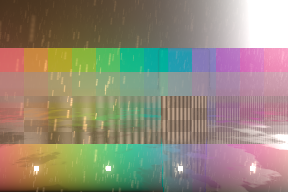
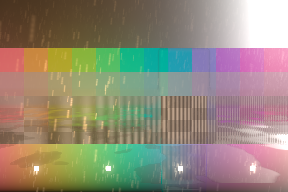
Fix puddles

diff --git a/crates/calibraw-core/src/pipeline/processing/tiles.rs b/crates/calibraw-core/src/pipeline/processing/tiles.rs
@@ -46,6 +46,11 @@ pub const HAZE_GUIDE_SUPPORT: u32 = 2;
 // tone guide, so the guide's halo covers both.
 const _: () = assert!(HAZE_BOX_SUPPORT <= TONE_GUIDE_SUPPORT);
 const _: () = assert!(HAZE_GUIDE_SUPPORT <= TONE_GUIDE_SUPPORT);
+/// Pixels around each pixel over which Wet Surfaces reads the scene's detail
+/// (`WET_DETAIL_REACH` in wet_surfaces.wgsl). It reads the scene the tone guide
+/// reads, so the guide's halo covers it too.
+pub const WET_SURFACES_SUPPORT: u32 = 2;
+const _: () = assert!(WET_SURFACES_SUPPORT <= TONE_GUIDE_SUPPORT);
 /// Footprint of the Texture and Clarity cascade (detail_scale_space.wgsl):
 /// 2 taps each side at steps 1, 2, 4, …, 2^(levels - 1), so 2 × (2^levels - 1).
 /// Texture alone builds 5 levels, Clarity all 7; `layout_contract_tests`

diff --git a/crates/calibraw-gpu/src/pipeline/gpu/layout_contract_tests.rs b/crates/calibraw-gpu/src/pipeline/gpu/layout_contract_tests.rs
@@ -21,6 +21,7 @@ use crate::pipeline::MaskEffect;
 use calibraw_core::pipeline::{
     CA_WINDOW_RADIUS, DETAIL_CLARITY_SUPPORT, DETAIL_TEXTURE_SUPPORT, HAZE_BOX_SUPPORT,
     HAZE_GUIDE_SUPPORT, MAX_LATERAL_SHIFT, MAX_RESOLUTION_SCALE, TONE_GUIDE_RADIUS_CELLS,
+    WET_SURFACES_SUPPORT,
 };
 use naga::proc::Layouter;
 use std::collections::BTreeSet;
@@ -641,6 +642,10 @@ fn weather_cell_matches_its_wgsl_declaration() {
         .find(|(_, ty)| ty.name.as_deref().map(undecorated) == Some("WeatherCell"))
         .expect("WeatherCell is declared");
     assert_eq!(u64::from(layouter[handle].size), WEATHER_CELL_BYTES);
+    assert_eq!(
+        shared_u32_constant(&modules, "WET_DETAIL_REACH"),
+        WET_SURFACES_SUPPORT
+    );
 }
 
 #[test]

diff --git a/crates/calibraw-core/src/pipeline/mod.rs b/crates/calibraw-core/src/pipeline/mod.rs
@@ -80,7 +80,7 @@ pub use processing::{
     required_export_tile_halo, ExportTile, ProcessingStage, ProxySpec, TilePlan, TileSpec,
     CA_WINDOW_RADIUS, CHROMATIC_ABERRATION_SUPPORT, DETAIL_CLARITY_SUPPORT, DETAIL_TEXTURE_SUPPORT,
     EXPORT_TILE_HALO, HAZE_BOX_SUPPORT, HAZE_GUIDE_SUPPORT, MAX_RESOLUTION_SCALE,
-    MIN_EXPORT_TILE_HALO, TONE_GUIDE_CELL_SIZE, TONE_GUIDE_RADIUS_CELLS,
+    MIN_EXPORT_TILE_HALO, TONE_GUIDE_CELL_SIZE, TONE_GUIDE_RADIUS_CELLS, WET_SURFACES_SUPPORT,
 };
 pub use raw_loader::{
     decodes_as_raster, is_supported_raw_path, is_unsupported_raw_error,

diff --git a/crates/calibraw-gpu/src/pipeline/gpu/effect_inputs.rs b/crates/calibraw-gpu/src/pipeline/gpu/effect_inputs.rs
@@ -734,6 +734,7 @@ impl InputBindingSources {
                     buffer_binding(0, &self.camera_uniforms),
                     sampler_binding(28, &self.mask_sampler),
                     texture_binding(35, inputs.scene_depth),
+                    texture_binding(67, &weather.environment_view),
                     texture_binding(72, &weather.ground_view),
                 ],
             ),

diff --git a/crates/calibraw-gpu/src/pipeline/gpu/builder/layouts.rs b/crates/calibraw-gpu/src/pipeline/gpu/builder/layouts.rs
@@ -736,6 +736,7 @@ pub(in crate::pipeline::gpu) fn create_bind_group_layouts(
             buffer_entry(0),
             sampler_entry(28),
             texture_entry(35, wgpu::TextureSampleType::Float { filterable: true }),
+            weather_read(67),
             environment_write(72),
         ],
     ];

diff --git a/README.md b/README.md
@@ -138,7 +138,7 @@ Apply effects to the whole photo or stack them on a local mask. The Effects card
 - **Edge Glow & Neon:** Trace image contours with colored outlines and halos. Both effects stay inside the mask; Neon's Original image control retains the photo behind the lines.
 - **Fog & Smoke:** Add atmospheric haze or textured plumes. Fog's Scene depth control builds haze with distance; turn it off for an even-distance veil. Light glow makes both glow around Relight and Light Rays lights; Image lights adds the photo's own lamps, signs and lit windows in their colours.
 - **Rain:** Add falling rain and its mist. Drops pass behind nearer objects using scene depth and take their light from their surroundings, so they show against dark areas and fade against a bright sky. Streaks catch Relight, Light Rays and the photo's own lamps, and straightening the photo keeps them falling the same way.
-- **Wet Surfaces:** Darken surfaces as water does and let the ground reflect the photo, with puddles on smooth ground. The ground is found in scene depth, so reflections meet what stands on it. Relight and Light Rays add highlights, and a Rain effect ripples the puddles.
+- **Wet Surfaces:** Darken surfaces as water does and let the ground reflect the photo, with puddles that gather in the ground's low places, stop at kerbs and break up on its texture. The ground is found in scene depth, so reflections meet what stands on it. Relight and Light Rays add highlights, and a Rain effect ripples the puddles.
 - **Grain:** Add photographic texture with adjustable size, roughness, color, and seed. Use a local mask for selective grain or Fullscreen for a film finish.
 - **Halation:** Add warm halos around bright highlights, with radius, highlight threshold, and warmth controls. The halo appears only inside the mask, including light from nearby highlights outside it.
 - **Vignette:** Darken edges with negative amounts or brighten them with positive amounts. Adjust the falloff, shape, center, and highlight protection. Its center follows the cropped, rotated frame; the other position pads use the full image.

diff --git a/docs/ARCHITECTURE.md b/docs/ARCHITECTURE.md
@@ -250,7 +250,7 @@ passes as before. Each pass reads the image from one work texture and writes the
 other, and `encode_output_stage` tracks which one holds it. They read the weather
 map (`weather_analysis.wgsl`), a `FullImageMap` holding the photo's coarse colour,
 a guided filter's coefficients that refine scene depth against the photo, and the
-ground. It depends on the scene, scene depth and the direction of up
+ground with its terrain height. It depends on the scene, scene depth and the direction of up
 (`GpuParams::with_vignette_geometry`), and is rebuilt when any of them changes.
 Compiled programs are shared through `RawGpuProgramTemplate` and the persistent
 pipeline cache. Rust/WGSL layout contracts are tested in
